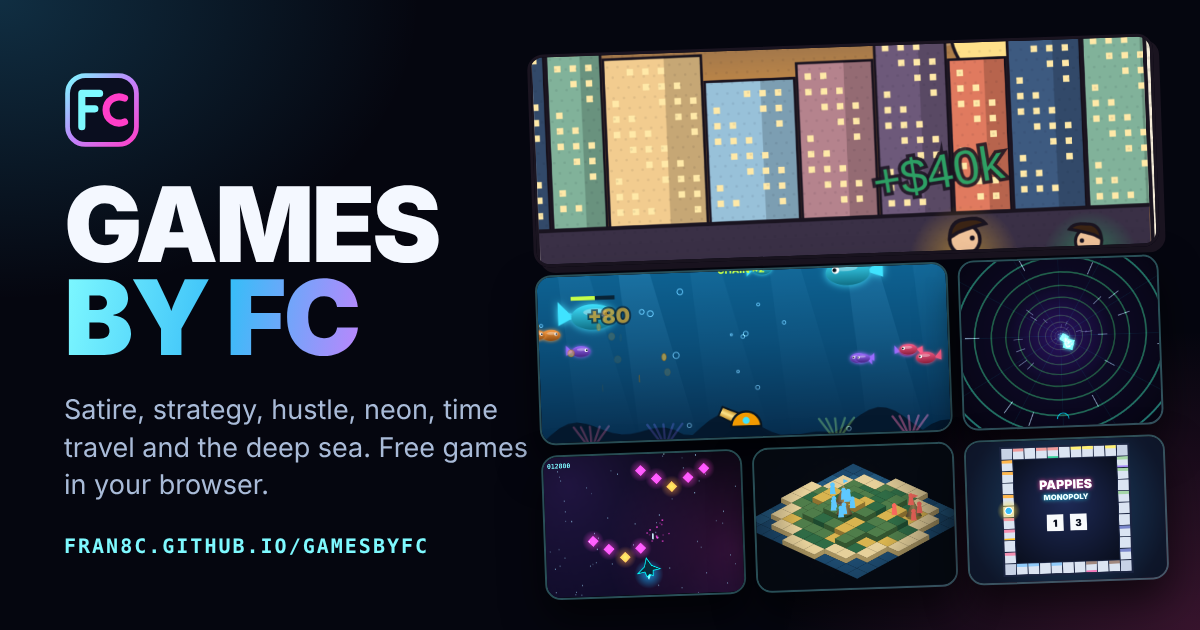
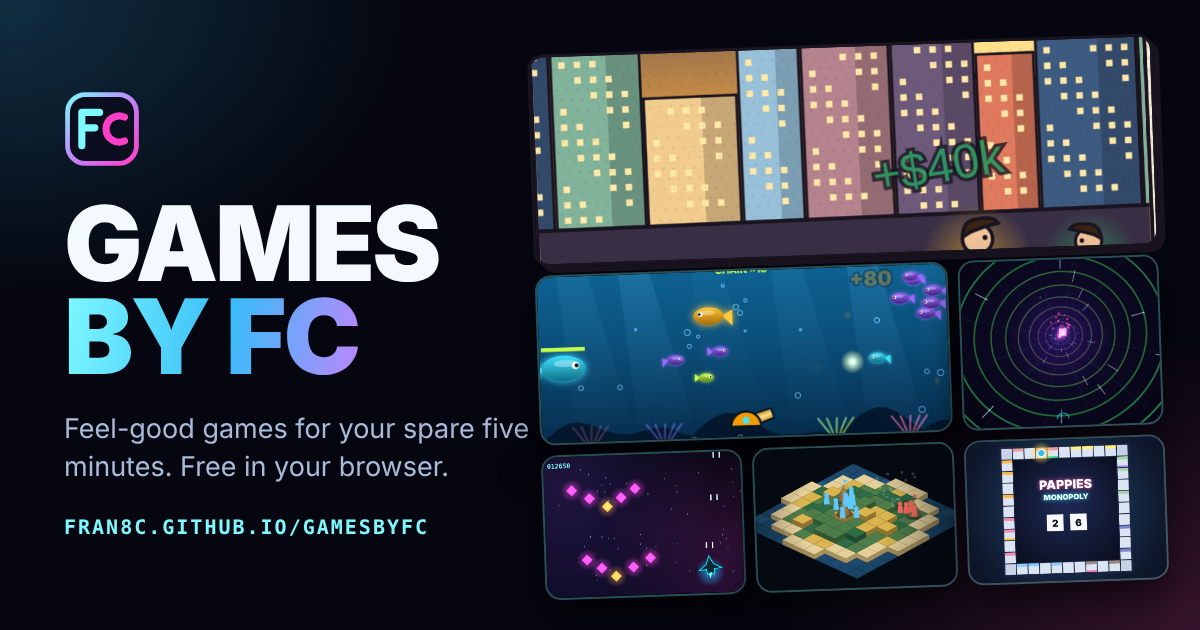
Add files via upload

diff --git a/index.html b/index.html
@@ -12,7 +12,7 @@
 <meta property="og:type" content="website">
 <meta property="og:site_name" content="Games by FC">
 <meta property="og:title" content="Games by FC — The Arcade">
-<meta property="og:description" content="Satire, strategy, hustle, neon, time travel and the deep sea. Free games that run in your browser.">
+<meta property="og:description" content="Feel-good games for your spare five minutes. Build, hustle, explore and chase a high score. Free in your browser.">
 <meta property="og:url" content="https://fran8c.github.io/gamesbyfc/">
 <meta property="og:image" content="https://fran8c.github.io/gamesbyfc/og.png">
 <meta property="og:image:width" content="1200">
@@ -433,7 +433,7 @@ footer.wrap{text-align:center;padding-top:clamp(44px,7vw,72px);padding-bottom:ca
   <header class="hero">
     <div class="kicker"><span class="dot"></span>Free · No download · No sign-up</div>
     <h1><span class="l1">GAMES</span><span class="l2">BY FC</span></h1>
-    <p class="lede">Small games that run in your browser. Satire, strategy, hustle, neon, time travel and the deep sea. Pick a cabinet and play — the buttons still work.</p>
+    <p class="lede">Feel-good games for your spare five minutes. Grow a tiny tribe, net a golden koi, light up the sky or make your first million. Pick a cabinet — there's always another round.</p>
     <ul class="facts-row">
       <li id="gameCount">Games</li>
       <li>Phone or computer</li>
@@ -477,9 +477,9 @@ footer.wrap{text-align:center;padding-top:clamp(44px,7vw,72px);padding-bottom:ca
   <div class="foot-row">
     <span>Games by FC</span><span class="sep">·</span>
     <span>Free to play</span><span class="sep">·</span>
-    <span>No refunds</span>
+    <span>Made for fun</span>
   </div>
-  <p class="quote">“All policies final. All appeals considered.” — Pappies Monopoly</p>
+  <p class="quote">Thanks for playing. See you next round.</p>
 </footer>
 
 <div class="sheet" id="iosSheet" role="dialog" aria-modal="true" aria-labelledby="iosH">
@@ -510,7 +510,7 @@ var GAMES = [
     stamp: 'Fiction.',
     tag: 'Comic · Hustle',
     title: 'VELOCITY', sub: 'The ASEAN Hustle',
-    desc: 'Pitch investors, mash hype, dodge the police and flee to the next city. Fake it till you make it, then fight everyone.',
+    desc: 'Pitch investors, build the buzz and take your startup from city to city across ASEAN. Start small, dream big and see how far your hustle can go.',
     facts: ['Solo', 'Keyboard or tap', 'Phone: hold upright', 'Saves every city'],
     cta: 'Start the hustle', meta: 'Issue #1'
   },
@@ -520,8 +520,8 @@ var GAMES = [
     tag: 'Arcade · Fish shooter',
     titleHTML: '<span class="h1">HARVEST</span> <span class="h2">TIDE</span>', title: 'Harvest Tide',
     sub: 'Aim · Net · Chain · Spin',
-    desc: 'Sixty seconds on a glowing reef. Bounce shots, net whole schools and chain catches into Harvest Fever. Spin the Golden Koi wheel and take on the Octopus King.',
-    facts: ['Solo', 'Tap to shoot', 'Phone: hold sideways', '60-second rounds'],
+    desc: 'Two bright minutes on a glowing reef. Bounce shots, net whole schools and chain catches into Harvest Fever. Ride the Golden Tide, spin the Golden Koi wheel and win big.',
+    facts: ['Solo', 'Tap to shoot', 'Phone: hold sideways', '2-minute rounds'],
     cta: 'Cast off', meta: 'Score attack'
   },
   {
@@ -529,7 +529,7 @@ var GAMES = [
     tag: 'Satire · Board game',
     titleHTML: '<span class="a">PAPPIES</span> <span class="b">MONOPOLY</span>', title: 'Pappies Monopoly',
     sub: 'Singapore property board',
-    desc: 'Buy HDBs, dodge the ABSD, and queue at the kopitiam. Rents adjust. So does everything else.',
+    desc: 'Buy your first HDB, grow a property empire and celebrate at the kopitiam. Roll the dice — your lucky break could be one turn away.',
     facts: ['1–4 players + AI', 'Pass and play', 'Up to 60 rounds'],
     cta: 'Take a seat', meta: '2026 edition'
   },
@@ -537,7 +537,7 @@ var GAMES = [
     id: 'shaman', name: 'Shaman!', href: 'shaman/', theme: 'shaman', preview: 'shaman',
     tag: 'Strategy · Survival',
     title: 'SHAMAN!', sub: 'A tiny beginning',
-    desc: 'Raise huts, gather followers, and cast spells through the fog. Your rivals see less than you think.',
+    desc: 'Raise huts, welcome new followers and cast spells that shape the land. From a tiny beginning, grow a tribe that thrives.',
     facts: ['Solo vs 1–3 tribes', 'Touch or mouse', '6 world types'],
     cta: 'Begin', meta: 'Single player'
   },
@@ -546,7 +546,7 @@ var GAMES = [
     tag: "Arcade · Shoot 'em up",
     titleHTML: '<span class="n">NEON</span> <span class="y">3026</span>', title: 'Neon 3026',
     sub: 'Endless waves',
-    desc: 'Chain combos, graze bullets, call in wingmen and outlast the Dreadnought. Insert coin.',
+    desc: 'Chain combos, call in your wingmen and light up the sky. Every run makes you sharper — the Dreadnought is going down.',
     facts: ['Solo', 'Keyboard or touch', 'Top-10 scoreboard'],
     cta: 'Insert coin', meta: 'Arcade'
   },
@@ -555,7 +555,7 @@ var GAMES = [
     tag: 'Arcade · 3D shooter',
     titleHTML: '<span class="t1">TIME</span> <span class="t2">HOLE</span>', title: 'Time Hole',
     sub: "A chrono traveller's run",
-    desc: 'Fall through time with a gun that eats your ammo. Shoot the green cells to refill, hit the Monster in its red eye, and never run dry.',
+    desc: 'Dive through time and keep your run alive. Grab the green cells to power up, aim for the Monster\'s red eye and see how far you can fly.',
     facts: ['Solo', 'Mouse, keys or touch', 'Easy, Hard + tutorial', 'Daily run'],
     cta: 'Jump in', meta: 'Chrono run'
   }
@@ -565,14 +565,15 @@ var GAMES = [
 var COMING_SOON = {
   tag: 'In the workshop',
   title: 'Next cabinet',
-  desc: 'Something new is being wired up. Check back soon.'
+  desc: 'Something fun is on its way. Come back soon and be the first to play.'
 };
 
 /* Newest first. */
 var NEWS = [
-  { date: '2026-11-19', html: '<b>Harvest Tide is here.</b> A 60-second fish shooter on a glowing reef. Net whole schools, spin the Golden Koi wheel, beat your best. Hold your phone sideways.' },
+  { date: '2026-11-20', html: '<b>Harvest Tide update.</b> Rounds now last two minutes, with a Golden Tide halfway through (points ×2), Frenzy schools and new goals to chase.' },
+  { date: '2026-11-19', html: '<b>Harvest Tide is here.</b> A fish shooter on a glowing reef. Net whole schools, spin the Golden Koi wheel, beat your best. Hold your phone sideways.' },
   { date: '2026-11-19', html: '<b>The theme song grows.</b> “Insert Coin” has a sixth part — a reef calypso for Harvest Tide.' },
-  { date: '2026-10-31', html: '<b>Time Hole is here.</b> A 3D run down a wormhole where your ammo is your life. Try the tutorial first.' },
+  { date: '2026-10-31', html: '<b>Time Hole is here.</b> A 3D dash through a wormhole where every shot counts. The tutorial gets you flying in a minute.' },
   { date: '2026-10-31', html: '<b>A theme song.</b> Tap <b>Theme</b> at the top for “Insert Coin” — one tune played in the style of each game.' },
   { date: '2026-10-31', html: '<b>New arcade hall.</b> Gameplay previews, how each game plays at a glance, and your saved progress right on the cards.' },
   { date: '2026-10-31', html: '<b>Install it.</b> Add Games by FC to your home screen and play offline after your first visit.' },
@@ -1132,8 +1133,7 @@ var PREVIEWS = {
     c.textBaseline = 'top'; c.lineWidth = 4; c.strokeStyle = '#081521';
     c.font = '900 ' + Math.round(13 * u) + 'px system-ui, sans-serif'; c.textAlign = 'center';
     c.strokeText(s.score.toLocaleString('en-US'), w / 2, 10); c.fillStyle = '#FFC93C'; c.fillText(s.score.toLocaleString('en-US'), w / 2, 10);
-    var left = 60 - Math.floor(t % 60), tl = '0:' + String(left === 60 ? 0 : left).padStart(2, '0');
-    if (left === 60) tl = '1:00';
+    var left = 120 - Math.floor(t % 120), tl = Math.floor(left / 60) + ':' + String(left % 60).padStart(2, '0');
     c.textAlign = 'right'; c.strokeText(tl, w - 12, 10); c.fillStyle = left <= 10 ? '#FF5E8A' : '#BFEFFF'; c.fillText(tl, w - 12, 10);
     if (s.combo > 1) { c.font = '800 ' + Math.round(10 * u) + 'px system-ui, sans-serif'; c.textAlign = 'center'; c.fillStyle = '#C6FF4A'; c.fillText('CHAIN ×' + s.combo, w / 2, 12 + 16 * u); }
   },

diff --git a/harvest-tide/index.html b/harvest-tide/index.html
@@ -5,6 +5,10 @@
 <meta name="viewport" content="width=device-width, initial-scale=1, viewport-fit=cover, user-scalable=no">
 <meta name="theme-color" content="#06223F">
 <title>Harvest Tide</title>
+<!-- Games by FC: icons, install, offline -->
+<link rel="manifest" href="../manifest.webmanifest">
+<link rel="icon" href="../favicon.svg" type="image/svg+xml">
+<link rel="apple-touch-icon" href="../icons/apple-touch-icon.png">
 <style>
   html, body { margin: 0; height: 100%; background: #06223F; overflow: hidden;
                -webkit-user-select: none; user-select: none; -webkit-touch-callout: none; }
@@ -3751,7 +3755,7 @@ var __m6 = (function () {
 function createTitleScene(app) {
   const newDemo = seed => createGameScene(app, { mode: 'arcade', seed, autoplay: 'expert', attract: true });
   let demo = newDemo(20261108);
-  let arcadeR = null, icons = {}, t = 0, musicR = null, sfxR = null;
+  let arcadeR = null, icons = {}, t = 0, musicR = null, sfxR = null, backR = null;
   return {
     tick(n) {
       if (app.overlay) return;
@@ -3779,6 +3783,8 @@ function createTitleScene(app) {
         frost(ctx, 470 + i * 110, 222, 100, 30, 12, { glow: on, glowColor: C.gold, alpha: on ? 0.95 : 0.45 });
         T(ctx, label, 520 + i * 110, 243, { size: 16, w: 900, align: 'center', fill: on ? C.gold : C.ice, stroke: null });
       });
+      // back to the Games by FC arcade
+      backR = button(ctx, '\u2190 All games', 30, 22, 150, 40, { size: 15 });
       // quick sound toggles (same settings as the Settings screen)
       const s0 = app.save.settings;
       musicR = button(ctx, s0.music ? 'Music on' : 'Music off', 1020, 22, 110, 40, { size: 15 });
@@ -3804,7 +3810,8 @@ function createTitleScene(app) {
     },
     pointer(type, p) {
       if (type !== 'up') return;
-      if (hit(arcadeR, p)) { app.audio.play('click'); app.go('game', { mode: 'arcade' }); }
+      if (hit(backR, p)) { app.audio.play('click'); location.href = '../index.html'; }
+      else if (hit(arcadeR, p)) { app.audio.play('click'); app.go('game', { mode: 'arcade' }); }
       else if (hit(musicR, p)) { const s = app.save.settings; s.music = !s.music; writeSave(app.save); app.audio.apply(); app.audio.music(s.music); app.audio.play('click'); }
       else if (hit(sfxR, p)) { const s = app.save.settings; s.sfx = !s.sfx; writeSave(app.save); app.audio.apply(); app.audio.play('click'); }
       else if (hit(icons.help, p)) { app.audio.play('click'); app.open(createHowtoScene(app, {})); }
@@ -4267,6 +4274,12 @@ window.HT = __m0;
     el.onclick = function () { location.reload(); };
   });
 })();
+</script>
+<script>
+/* Games by FC: lets the whole arcade work offline after the first visit */
+if ('serviceWorker' in navigator && /^https?:$/.test(location.protocol)) {
+  addEventListener('load', function () { navigator.serviceWorker.register('../sw.js', { scope: '../' }).catch(function () {}); });
+}
 </script>
 </body>
 </html>
